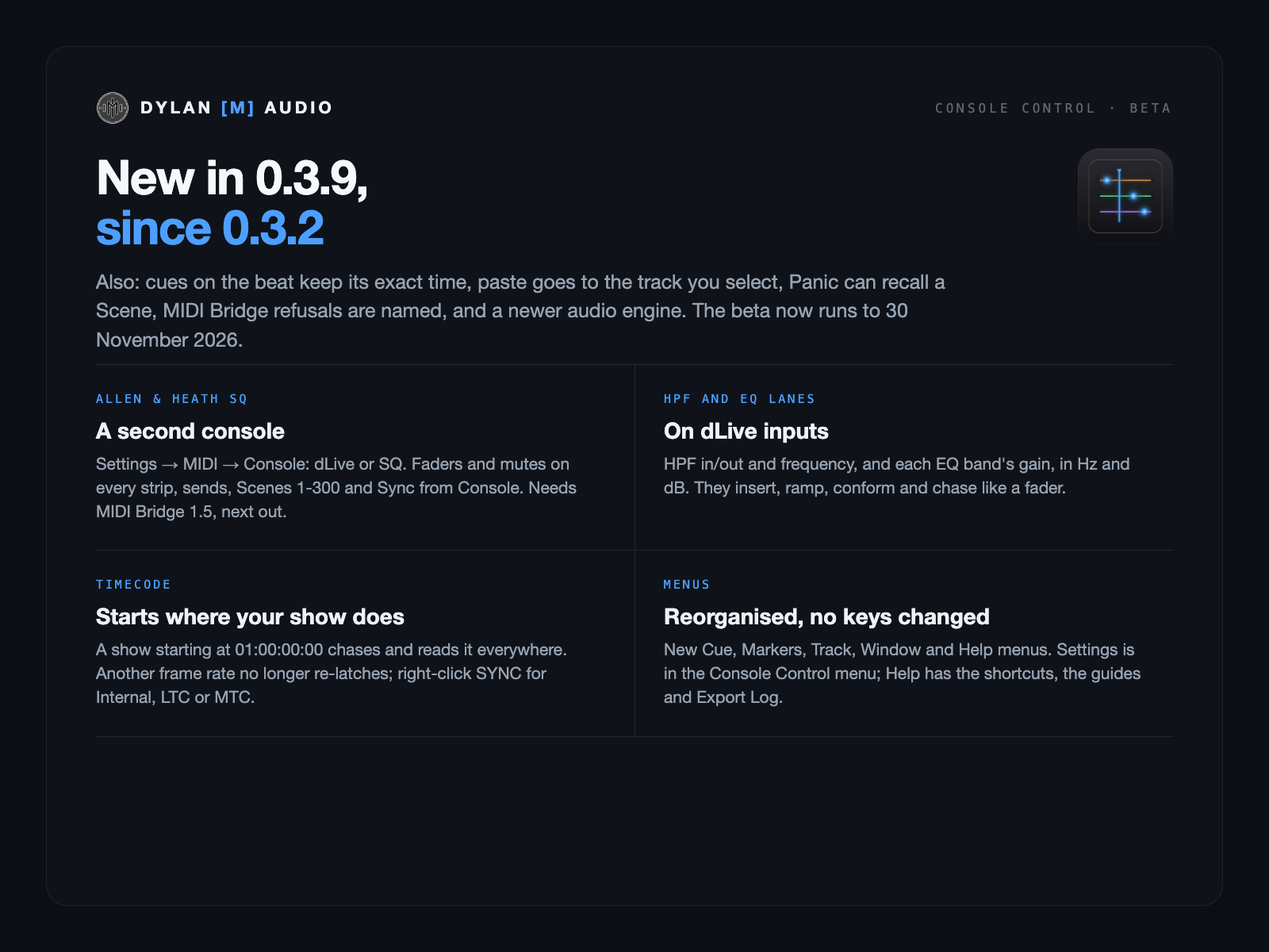
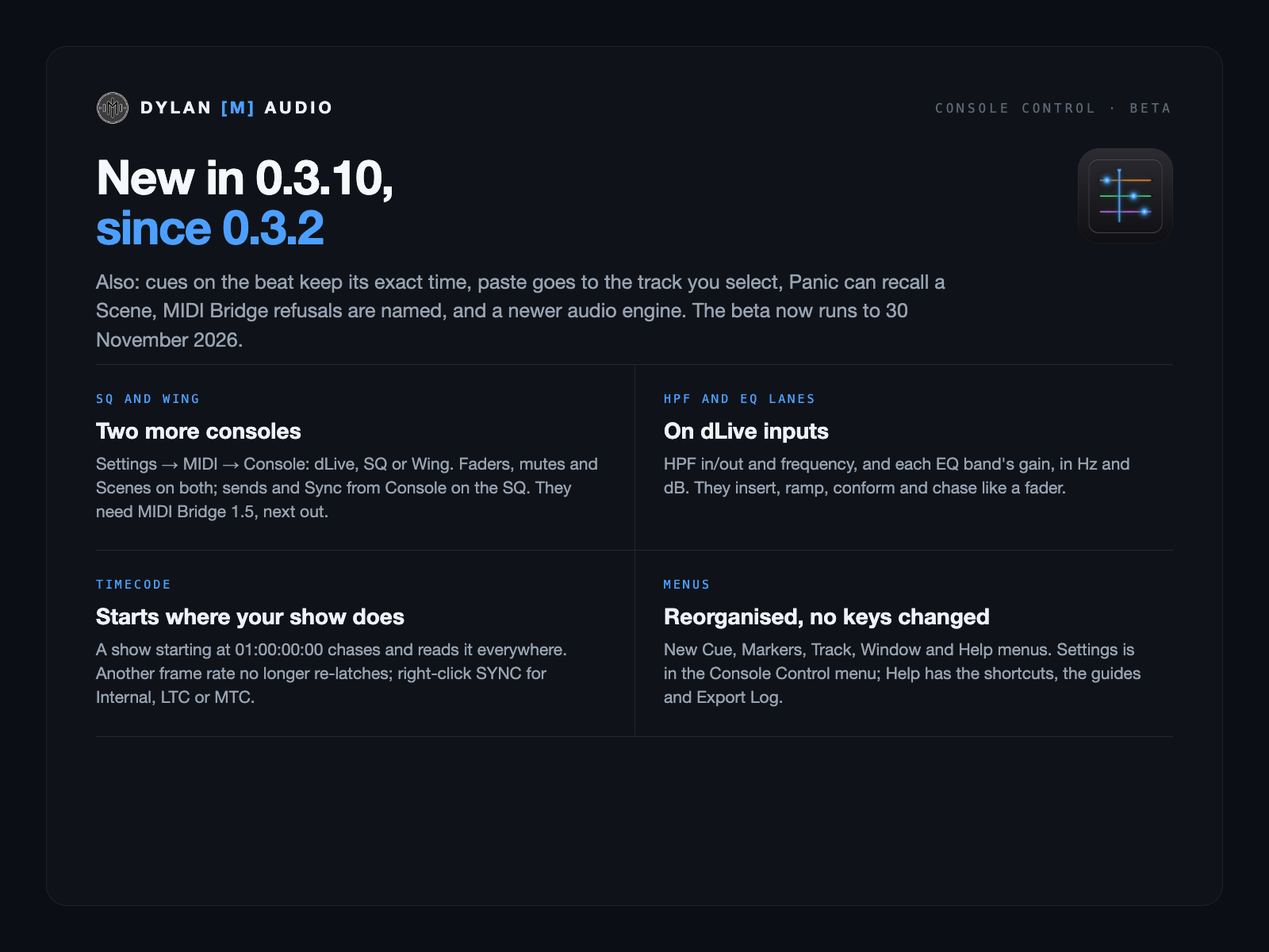
/cc-beta: 0.3.10 is the build on the beta product, not 0.3.9
The operator: it's 0.3.10 that went up (23 Oct 2026). The page's version,
New since 0.3.2 with 0.3.10's Behringer Wing (through MIDI Bridge 1.4.108
or later), Console "dLive · SQ and Wing with MIDI Bridge 1.5", the
carousel's hero, what's new and beta cards, the Quick Reference and
Reference Manual from the 0.3.10 DMG, and the beta manifest at 0.3.10.

Changed region(s): [[0.0625, 0.4625, 0.4688, 0.555], [0.0625, 0.4008, 0.25, 0.4625], [0.25, 0.1542, 0.3125, 0.2158]]

diff --git a/cc-beta/index.html b/cc-beta/index.html
@@ -222,7 +222,7 @@
       <img src="/assets/console-control.png" alt="Console Control app icon" width="72" height="72" />
       <div>
         <h1>Console Control</h1>
-        <div class="p-badges"><span class="tag">Beta &middot; 0.3.9</span></div>
+        <div class="p-badges"><span class="tag">Beta &middot; 0.3.10</span></div>
       </div>
     </div>
     <p class="p-tagline">Complete console automation, locked to timecode. Free to try until 30 November 2026.</p>
@@ -246,12 +246,12 @@
     <ul class="feature-list"><li><span class="ck"><svg viewBox="0 0 24 24" stroke-linecap="round" stroke-linejoin="round"><path d="M20 6 9 17l-5-5"/></svg></span><span>Fader, mute, Scene, Action and send cues on a timeline, locked to LTC or MTC</span></li><li><span class="ck"><svg viewBox="0 0 24 24" stroke-linecap="round" stroke-linejoin="round"><path d="M20 6 9 17l-5-5"/></svg></span><span>Import a live recording and every track lands at its real timecode — a whole set in under a minute</span></li><li><span class="ck"><svg viewBox="0 0 24 24" stroke-linecap="round" stroke-linejoin="round"><path d="M20 6 9 17l-5-5"/></svg></span><span>A tempo map from your click in seconds; snap cues to the beat</span></li><li><span class="ck"><svg viewBox="0 0 24 24" stroke-linecap="round" stroke-linejoin="round"><path d="M20 6 9 17l-5-5"/></svg></span><span>Your console's own Scene names, channel names and colours</span></li><li><span class="ck"><svg viewBox="0 0 24 24" stroke-linecap="round" stroke-linejoin="round"><path d="M20 6 9 17l-5-5"/></svg></span><span>Chase: locate anywhere and the console conforms</span></li><li><span class="ck"><svg viewBox="0 0 24 24" stroke-linecap="round" stroke-linejoin="round"><path d="M20 6 9 17l-5-5"/></svg></span><span>Preflight before doors, Show Mode during, Panic always</span></li><li><span class="ck"><svg viewBox="0 0 24 24" stroke-linecap="round" stroke-linejoin="round"><path d="M20 6 9 17l-5-5"/></svg></span><span>Works with MIDI Bridge, Time Code Tool and your Stream Deck</span></li></ul>
     <div class="side" style="margin-top:24px;">
       <div class="h">// The beta</div>
-      <div class="srow"><span class="k">Version</span><span class="v">0.3.9 BETA</span></div><div class="srow"><span class="k">Beta until</span><span class="v">30 November 2026</span></div><div class="srow"><span class="k">Price</span><span class="v">Free during the beta</span></div><div class="srow"><span class="k">Platform</span><span class="v">macOS 11+</span></div><div class="srow"><span class="k">Chip</span><span class="v">Apple Silicon &amp; Intel</span></div><div class="srow"><span class="k">Console</span><span class="v">dLive &middot; SQ with MIDI Bridge 1.5</span></div><div class="srow"><span class="k">Needs</span><span class="v"><a href="/products/midi-bridge/" style="color:var(--blue)">MIDI Bridge</a> 1.1+</span></div><div class="srow"><span class="k">Stream Deck</span><span class="v"><a href="/products/companion/" style="color:var(--blue)">via Companion</a></span></div>
+      <div class="srow"><span class="k">Version</span><span class="v">0.3.10 BETA</span></div><div class="srow"><span class="k">Beta until</span><span class="v">30 November 2026</span></div><div class="srow"><span class="k">Price</span><span class="v">Free during the beta</span></div><div class="srow"><span class="k">Platform</span><span class="v">macOS 11+</span></div><div class="srow"><span class="k">Chip</span><span class="v">Apple Silicon &amp; Intel</span></div><div class="srow"><span class="k">Console</span><span class="v">dLive &middot; SQ and Wing with MIDI Bridge 1.5</span></div><div class="srow"><span class="k">Needs</span><span class="v"><a href="/products/midi-bridge/" style="color:var(--blue)">MIDI Bridge</a> 1.1+</span></div><div class="srow"><span class="k">Stream Deck</span><span class="v"><a href="/products/companion/" style="color:var(--blue)">via Companion</a></span></div>
     </div>
   </div>
 </div></section>
 
-<section class="lf"><div class="wrap"><div class="lf-block" id="new"><div class="kicker p-sec-k"><span class="tick">//</span>&nbsp; New in 0.3.9</div><p>Since 0.3.2, the build the testers had before. The beta now runs to 30 November 2026. The full list comes with the download.</p><div class="lf-item"><h3>The Allen &amp; Heath SQ.</h3><p>Settings &rarr; MIDI &rarr; Console chooses the console a show is for: dLive or SQ. On an SQ: faders and mutes on every strip, sends, Scenes 1&ndash;300, and Sync from Console for its names and colours. It needs MIDI Bridge 1.5, which is next out.</p></div><div class="lf-item"><h3>HPF and EQ lanes.</h3><p>On dLive inputs: HPF in/out and frequency, and each EQ band&rsquo;s gain, in Hz and dB. They insert, ramp, conform and chase like a fader; a frequency sweeps evenly by octave.</p></div><div class="lf-item"><h3>Timecode that starts where your show does.</h3><p>A show whose session starts at 01:00:00:00 chases and reads 01:00:00:00 everywhere. LTC at another frame rate no longer drops and re-latches, glitches in the code are ridden through, and right-clicking SYNC chooses Internal, LTC or MTC.</p></div><div class="lf-item"><h3>Editing on the beat.</h3><p>Cues dragged, placed or pasted with Beat snap keep the beat&rsquo;s exact time. Paste onto another track by selecting it first. Panic can recall a Scene.</p></div><div class="lf-item"><h3>New menus, and a newer audio engine.</h3><p>Cue, Markers, Track, Window and Help menus, no shortcuts changed. The engine handles input-only and output-only devices, uses less memory, and converts audio about three times faster on Intel Macs.</p></div></div><div class="lf-block" id="start"><div class="kicker p-sec-k"><span class="tick">//</span>&nbsp; Your first session, in eight steps</div><p>Twenty minutes at the desk, or at home with a show recording. Nothing reaches the console until the bridge line is green.</p><ol class="lf-steps"><li><h3>Start MIDI Bridge</h3><p>Console Control talks to the console through the free <a href="/products/midi-bridge/">MIDI Bridge</a> (1.1 or later). Wait for the green line at the bottom of the window.</p></li><li><h3>Match the base MIDI channel</h3><p>Settings (<kbd>⌘,</kbd>) &mdash; the same number as Utility &rarr; Control &rarr; MIDI on the console.</p></li><li><h3>Add your tracks</h3><p><b>+ Track</b>, pick a type and a range. &ldquo;1-16&rdquo; makes sixteen input tracks in one step.</p></li><li><h3>Bring in the console&rsquo;s names</h3><p>Sync from Console (<kbd>⌃⌥R</kbd>) for channel names and colours, straight from the desk. File &rarr; Import Console Show File for Scene names and Actions.</p></li><li><h3>Import a show recording</h3><p><kbd>⌘I</kbd>. With an LTC track present, every song is placed at its own timecode and outlined as a region.</p></li><li><h3>Place cues</h3><p>Select a track, then <kbd>U</kbd>, <kbd>I</kbd> or <kbd>V</kbd> for fader cues, <kbd>M</kbd> for mute, <kbd>S</kbd> for a Scene, <kbd>A</kbd> for an Action.</p></li><li><h3>Run Preflight</h3><p><kbd>⌃⌥P</kbd> checks the bridge, the base channel, chase and routing, and says exactly what is wrong.</p></li><li><h3>Arm SYNC, press play</h3><p>The timeline waits for timecode and follows it when it locks. Then <kbd>⌘⇧L</kbd> for Show Mode.</p></li></ol></div><div class="lf-block"><div class="kicker p-sec-k"><span class="tick">//</span>&nbsp; Four ideas that explain everything else</div><p>If the app ever surprises you, it is almost always one of these.</p><div class="lf-item"><h3>Time, not bars &mdash; cues sit at a timecode position.</h3><p>Live shows drift, drop the click and vamp. Tempo exists only for beat snapping and the grid &mdash; the ruler is always time.</p></div><div class="lf-item"><h3>Chase &mdash; move the playhead and the desk follows.</h3><p>Scrub, locate or play: every lane&rsquo;s value at that position is worked out and sent. Chase can be switched off for everything (<kbd>⇧C</kbd>) or per lane (<kbd>C</kbd>).</p></div><div class="lf-item"><h3>Fired vs pending &mdash; plain text was sent, a dot was not.</h3><p>A dot beside a readout means &ldquo;the console should be here, but it hasn&rsquo;t been sent&rdquo;. Conform Console sends everything pending in one pass.</p></div><div class="lf-item"><h3>One console path &mdash; everything goes through MIDI Bridge.</h3><p>Console Control never opens its own connection to the desk, so your DAW, Companion and the other apps keep working beside it.</p></div></div><div class="lf-block"><div class="kicker p-sec-k"><span class="tick">//</span>&nbsp; SYNC arms, play latches, stop disarms</div><p>The button beside Record. Always this way round &mdash; a show never latches on its own when it opens.</p><div class="states"><div class="state"><span class="dot" style="background:var(--dim)"></span><span class="l">Dimmed</span><span class="d">Sync off. Internal clock, for programming and loop playback.</span></div><div class="state"><span class="dot" style="background:#6f93b8"></span><span class="l">Lit steel-blue</span><span class="d">Armed. Press play to latch.</span></div><div class="state"><span class="dot" style="background:var(--amber)"></span><span class="l">Pulsing amber</span><span class="d">Play pressed, awaiting timecode.</span></div><div class="state"><span class="dot" style="background:var(--green)"></span><span class="l">Green</span><span class="d">Locked to incoming timecode. Locate and scrub belong to the source.</span></div><div class="state"><span class="dot" style="background:var(--amber)"></span><span class="l">Steady amber</span><span class="d">Freewheeling &mdash; the signal dropped and the timeline is coasting.</span></div></div><p><b>Right-click SYNC</b> for the source (LTC or MTC), the LTC input channel, the MTC port, freewheel time, drift tolerance and offset. <b>Still pulsing while code plays?</b> It is listening to the wrong input.</p></div><div class="lf-block" id="keys"><div class="kicker p-sec-k"><span class="tick">//</span>&nbsp; The keys worth learning first</div><p>Every shortcut can be changed in Help &rarr; Keyboard Shortcuts (<kbd>⌃⌥K</kbd>): click one and press the keys you want. Hover over any button to see its key. All of them are in the <a href="/guides/console-control-quick-reference.pdf" target="_blank" rel="noopener">Quick Reference</a>.</p><div class="keys"><div class="key"><div class="c"><kbd>Space</kbd></div><div class="a">Play / stop</div></div><div class="key"><div class="c"><kbd>⌘⇧Esc</kbd></div><div class="a">Panic</div></div><div class="key"><div class="c"><kbd>⌘⇧L</kbd></div><div class="a">Show Mode</div></div><div class="key"><div class="c"><kbd>⌃⌥C</kbd></div><div class="a">Conform Console</div></div><div class="key"><div class="c"><kbd>⌃⌥P</kbd></div><div class="a">Preflight</div></div><div class="key"><div class="c"><kbd>⌃⌥R</kbd></div><div class="a">Sync from Console</div></div><div class="key"><div class="c"><kbd>U</kbd><kbd>I</kbd><kbd>V</kbd></div><div class="a">Fader cue: unity / &minus;&infin; / a value</div></div><div class="key"><div class="c"><kbd>M</kbd><kbd>⇧M</kbd></div><div class="a">Mute / unmute cue</div></div><div class="key"><div class="c"><kbd>S</kbd><kbd>A</kbd></div><div class="a">Scene / Action cue</div></div><div class="key"><div class="c"><kbd>C</kbd><kbd>⇧C</kbd></div><div class="a">Chase this lane / everything</div></div><div class="key"><div class="c"><kbd>[</kbd><kbd>]</kbd></div><div class="a">Previous / next marker, region or clip edge</div></div><div class="key"><div class="c"><kbd>1</kbd><kbd>…</kbd><kbd>0</kbd></div><div class="a">Regions 1 to 10</div></div><div class="key"><div class="c"><kbd>T</kbd></div><div class="a">Go to a timecode</div></div><div class="key"><div class="c"><kbd>⌥M</kbd><kbd>⌥R</kbd></div><div class="a">Marker at playhead / region from selection</div></div><div class="key"><div class="c"><kbd>⌥←</kbd><kbd>⌥→</kbd></div><div class="a">Nudge the selection</div></div><div class="key"><div class="c"><kbd>⌃⌥Space</kbd></div><div class="a">Record armed reference tracks</div></div><div class="key"><div class="c"><kbd>⌃⌥X</kbd></div><div class="a">Mixer</div></div><div class="key"><div class="c"><kbd>⌘Z</kbd><kbd>⌘⇧Z</kbd></div><div class="a">Undo / redo</div></div></div></div><div class="lf-block"><div class="kicker p-sec-k"><span class="tick">//</span>&nbsp; Built for show day</div><p>Four controls to know before doors.</p><div class="lf-item"><h3>Preflight &mdash; <kbd>⌃⌥P</kbd></h3><p>Flags problems before the show: bridge and console link, base-channel mismatches, chase switched off, send lanes the console can&rsquo;t route.</p></div><div class="lf-item"><h3>Show Mode &mdash; <kbd>⌘⇧L</kbd></h3><p>Locks editing and undo. Huge timecode, sync, chase, bridge health and live per-track readouts &mdash; and what&rsquo;s coming next, with countdowns. Asks before it enters and before it leaves.</p></div><div class="lf-item"><h3>Conform Console &mdash; <kbd>⌃⌥C</kbd></h3><p>A one-shot chase you can use at any moment. Play always conforms first, so the console enters playback in the right state.</p></div><div class="lf-item"><h3>Panic &mdash; <kbd>⌘⇧Esc</kbd></h3><p>Always available, even with everything else locked.</p></div></div><div class="lf-block" id="stream-deck"><div class="kicker p-sec-k"><span class="tick">//</span>&nbsp; On your Stream Deck</div><p>Beta testers get Stream Deck control too, through Bitfocus Companion.</p><div class="lf-item"><h3>Every shortcut is a key.</h3><p>Through the free <a href="/products/companion/">Companion module</a>, Console Control&rsquo;s commands are Companion actions &mdash; play, Conform, Show Mode, Panic, cue programming &mdash; with sync lock and chase shown on the keys. A Stream Deck is the nicest way to press them; Companion&rsquo;s web buttons on a phone or tablet work too.</p></div><div class="lf-item"><h3>Set it up once.</h3><p>Install Companion on the same Mac and add the dylanmaudio module &mdash; the steps are on the <a href="/products/companion/#install">Companion page</a>. Console Control appears beside your other dylanmaudio apps.</p></div><div class="lf-item"><h3>You decide what it can touch.</h3><p>Settings &rarr; Companion: allow Companion control or switch it off, and lock the show-critical controls &mdash; Stop, Record, Conform and Show Mode are refused while locked. Panic always works.</p></div></div><div class="lf-block"><div class="kicker p-sec-k"><span class="tick">//</span>&nbsp; If something is wrong</div><p>Read the line at the bottom of the window. It tells you where the chain is broken, in order.</p><div class="states"><div class="state"><span class="dot" style="background:var(--green)"></span><span class="l">Green</span><span class="d">Console connected through the bridge. Its IP is shown.</span></div><div class="state"><span class="dot" style="background:var(--amber)"></span><span class="l">Amber</span><span class="d">Bridge running, console unreachable. Check the console IP in the bridge, the network, and MIDI-over-TCP on the console.</span></div><div class="state"><span class="dot" style="background:var(--red)"></span><span class="l">Red</span><span class="d">The MIDI Bridge app isn&rsquo;t running. Start it.</span></div><div class="state"><span class="dot" style="background:var(--blue)"></span><span class="l">Green, but nothing moves</span><span class="d">Check chase for everything (<kbd>⇧C</kbd>), the track&rsquo;s M, the lane&rsquo;s chase badge &mdash; or run Preflight (<kbd>⌃⌥P</kbd>).</span></div><div class="state"><span class="dot" style="background:var(--blue)"></span><span class="l">A track won&rsquo;t edit</span><span class="d">It is locked, or you are in Show Mode.</span></div></div><p><b>Something went wrong?</b> <b>Help &rarr; Export Log&hellip;</b> puts a copy of the session log on your Desktop. Send it with <b>Help &rarr; Send Feedback&hellip;</b>, or to <a href="mailto:dylan@dylanmaudio.com">dylan@dylanmaudio.com</a>. The log already records your settings, the show, every message you saw and the timecode state.</p></div><div class="lf-block" id="beta"><div class="kicker p-sec-k"><span class="tick">//</span>&nbsp; The beta, until 30 November 2026</div><p>This is 0.3.9 BETA: a full-featured beta. Nothing is switched off, and nothing is locked away afterwards.</p><div class="lf-item"><h3>Until the date, everything works.</h3><p>The window shows the end date from first launch, and for the last two weeks it reminds you each time it opens.</p></div><div class="lf-item"><h3>After the date, it opens and edits but sends nothing.</h3><p>Your shows stay yours. Console output stops until you install a newer beta.</p></div><div class="lf-item"><h3>A show is never interrupted.</h3><p>The date is only checked when the app starts, so a show that runs past midnight carries on.</p></div><div class="lf-item"><h3>You need MIDI Bridge and a current Mac.</h3><p>The free <a href="/products/midi-bridge/">MIDI Bridge</a> (1.1 or later; 1.5 for an SQ), macOS 11 or later, Apple Silicon or Intel. Companion and a Stream Deck if you want keys. No analytics, no telemetry.</p></div></div></div></section>
+<section class="lf"><div class="wrap"><div class="lf-block" id="new"><div class="kicker p-sec-k"><span class="tick">//</span>&nbsp; New in 0.3.10</div><p>Since 0.3.2, the build the testers had before. The beta now runs to 30 November 2026. The full list comes with the download.</p><div class="lf-item"><h3>The Allen &amp; Heath SQ.</h3><p>Settings &rarr; MIDI &rarr; Console chooses the console a show is for: dLive or SQ. On an SQ: faders and mutes on every strip, sends, Scenes 1&ndash;300, and Sync from Console for its names and colours. It needs MIDI Bridge 1.5, which is next out.</p></div><div class="lf-item"><h3>The Behringer Wing.</h3><p>Settings &rarr; MIDI &rarr; Console &rarr; Wing: faders and mutes on channels, buses, mains, matrices and DCAs, mute groups, and Scene recalls, through MIDI Bridge 1.4.108 or later, set to the Wing. Aux inputs, sends, Actions and HPF / EQ lanes aren&rsquo;t on the Wing yet.</p></div><div class="lf-item"><h3>HPF and EQ lanes.</h3><p>On dLive inputs: HPF in/out and frequency, and each EQ band&rsquo;s gain, in Hz and dB. They insert, ramp, conform and chase like a fader; a frequency sweeps evenly by octave.</p></div><div class="lf-item"><h3>Timecode that starts where your show does.</h3><p>A show whose session starts at 01:00:00:00 chases and reads 01:00:00:00 everywhere. LTC at another frame rate no longer drops and re-latches, glitches in the code are ridden through, and right-clicking SYNC chooses Internal, LTC or MTC.</p></div><div class="lf-item"><h3>Editing on the beat.</h3><p>Cues dragged, placed or pasted with Beat snap keep the beat&rsquo;s exact time. Paste onto another track by selecting it first. Panic can recall a Scene.</p></div><div class="lf-item"><h3>New menus, and a newer audio engine.</h3><p>Cue, Markers, Track, Window and Help menus, no shortcuts changed. The engine handles input-only and output-only devices, uses less memory, and converts audio about three times faster on Intel Macs.</p></div></div><div class="lf-block" id="start"><div class="kicker p-sec-k"><span class="tick">//</span>&nbsp; Your first session, in eight steps</div><p>Twenty minutes at the desk, or at home with a show recording. Nothing reaches the console until the bridge line is green.</p><ol class="lf-steps"><li><h3>Start MIDI Bridge</h3><p>Console Control talks to the console through the free <a href="/products/midi-bridge/">MIDI Bridge</a> (1.1 or later). Wait for the green line at the bottom of the window.</p></li><li><h3>Match the base MIDI channel</h3><p>Settings (<kbd>⌘,</kbd>) &mdash; the same number as Utility &rarr; Control &rarr; MIDI on the console.</p></li><li><h3>Add your tracks</h3><p><b>+ Track</b>, pick a type and a range. &ldquo;1-16&rdquo; makes sixteen input tracks in one step.</p></li><li><h3>Bring in the console&rsquo;s names</h3><p>Sync from Console (<kbd>⌃⌥R</kbd>) for channel names and colours, straight from the desk. File &rarr; Import Console Show File for Scene names and Actions.</p></li><li><h3>Import a show recording</h3><p><kbd>⌘I</kbd>. With an LTC track present, every song is placed at its own timecode and outlined as a region.</p></li><li><h3>Place cues</h3><p>Select a track, then <kbd>U</kbd>, <kbd>I</kbd> or <kbd>V</kbd> for fader cues, <kbd>M</kbd> for mute, <kbd>S</kbd> for a Scene, <kbd>A</kbd> for an Action.</p></li><li><h3>Run Preflight</h3><p><kbd>⌃⌥P</kbd> checks the bridge, the base channel, chase and routing, and says exactly what is wrong.</p></li><li><h3>Arm SYNC, press play</h3><p>The timeline waits for timecode and follows it when it locks. Then <kbd>⌘⇧L</kbd> for Show Mode.</p></li></ol></div><div class="lf-block"><div class="kicker p-sec-k"><span class="tick">//</span>&nbsp; Four ideas that explain everything else</div><p>If the app ever surprises you, it is almost always one of these.</p><div class="lf-item"><h3>Time, not bars &mdash; cues sit at a timecode position.</h3><p>Live shows drift, drop the click and vamp. Tempo exists only for beat snapping and the grid &mdash; the ruler is always time.</p></div><div class="lf-item"><h3>Chase &mdash; move the playhead and the desk follows.</h3><p>Scrub, locate or play: every lane&rsquo;s value at that position is worked out and sent. Chase can be switched off for everything (<kbd>⇧C</kbd>) or per lane (<kbd>C</kbd>).</p></div><div class="lf-item"><h3>Fired vs pending &mdash; plain text was sent, a dot was not.</h3><p>A dot beside a readout means &ldquo;the console should be here, but it hasn&rsquo;t been sent&rdquo;. Conform Console sends everything pending in one pass.</p></div><div class="lf-item"><h3>One console path &mdash; everything goes through MIDI Bridge.</h3><p>Console Control never opens its own connection to the desk, so your DAW, Companion and the other apps keep working beside it.</p></div></div><div class="lf-block"><div class="kicker p-sec-k"><span class="tick">//</span>&nbsp; SYNC arms, play latches, stop disarms</div><p>The button beside Record. Always this way round &mdash; a show never latches on its own when it opens.</p><div class="states"><div class="state"><span class="dot" style="background:var(--dim)"></span><span class="l">Dimmed</span><span class="d">Sync off. Internal clock, for programming and loop playback.</span></div><div class="state"><span class="dot" style="background:#6f93b8"></span><span class="l">Lit steel-blue</span><span class="d">Armed. Press play to latch.</span></div><div class="state"><span class="dot" style="background:var(--amber)"></span><span class="l">Pulsing amber</span><span class="d">Play pressed, awaiting timecode.</span></div><div class="state"><span class="dot" style="background:var(--green)"></span><span class="l">Green</span><span class="d">Locked to incoming timecode. Locate and scrub belong to the source.</span></div><div class="state"><span class="dot" style="background:var(--amber)"></span><span class="l">Steady amber</span><span class="d">Freewheeling &mdash; the signal dropped and the timeline is coasting.</span></div></div><p><b>Right-click SYNC</b> for the source (LTC or MTC), the LTC input channel, the MTC port, freewheel time, drift tolerance and offset. <b>Still pulsing while code plays?</b> It is listening to the wrong input.</p></div><div class="lf-block" id="keys"><div class="kicker p-sec-k"><span class="tick">//</span>&nbsp; The keys worth learning first</div><p>Every shortcut can be changed in Help &rarr; Keyboard Shortcuts (<kbd>⌃⌥K</kbd>): click one and press the keys you want. Hover over any button to see its key. All of them are in the <a href="/guides/console-control-quick-reference.pdf" target="_blank" rel="noopener">Quick Reference</a>.</p><div class="keys"><div class="key"><div class="c"><kbd>Space</kbd></div><div class="a">Play / stop</div></div><div class="key"><div class="c"><kbd>⌘⇧Esc</kbd></div><div class="a">Panic</div></div><div class="key"><div class="c"><kbd>⌘⇧L</kbd></div><div class="a">Show Mode</div></div><div class="key"><div class="c"><kbd>⌃⌥C</kbd></div><div class="a">Conform Console</div></div><div class="key"><div class="c"><kbd>⌃⌥P</kbd></div><div class="a">Preflight</div></div><div class="key"><div class="c"><kbd>⌃⌥R</kbd></div><div class="a">Sync from Console</div></div><div class="key"><div class="c"><kbd>U</kbd><kbd>I</kbd><kbd>V</kbd></div><div class="a">Fader cue: unity / &minus;&infin; / a value</div></div><div class="key"><div class="c"><kbd>M</kbd><kbd>⇧M</kbd></div><div class="a">Mute / unmute cue</div></div><div class="key"><div class="c"><kbd>S</kbd><kbd>A</kbd></div><div class="a">Scene / Action cue</div></div><div class="key"><div class="c"><kbd>C</kbd><kbd>⇧C</kbd></div><div class="a">Chase this lane / everything</div></div><div class="key"><div class="c"><kbd>[</kbd><kbd>]</kbd></div><div class="a">Previous / next marker, region or clip edge</div></div><div class="key"><div class="c"><kbd>1</kbd><kbd>…</kbd><kbd>0</kbd></div><div class="a">Regions 1 to 10</div></div><div class="key"><div class="c"><kbd>T</kbd></div><div class="a">Go to a timecode</div></div><div class="key"><div class="c"><kbd>⌥M</kbd><kbd>⌥R</kbd></div><div class="a">Marker at playhead / region from selection</div></div><div class="key"><div class="c"><kbd>⌥←</kbd><kbd>⌥→</kbd></div><div class="a">Nudge the selection</div></div><div class="key"><div class="c"><kbd>⌃⌥Space</kbd></div><div class="a">Record armed reference tracks</div></div><div class="key"><div class="c"><kbd>⌃⌥X</kbd></div><div class="a">Mixer</div></div><div class="key"><div class="c"><kbd>⌘Z</kbd><kbd>⌘⇧Z</kbd></div><div class="a">Undo / redo</div></div></div></div><div class="lf-block"><div class="kicker p-sec-k"><span class="tick">//</span>&nbsp; Built for show day</div><p>Four controls to know before doors.</p><div class="lf-item"><h3>Preflight &mdash; <kbd>⌃⌥P</kbd></h3><p>Flags problems before the show: bridge and console link, base-channel mismatches, chase switched off, send lanes the console can&rsquo;t route.</p></div><div class="lf-item"><h3>Show Mode &mdash; <kbd>⌘⇧L</kbd></h3><p>Locks editing and undo. Huge timecode, sync, chase, bridge health and live per-track readouts &mdash; and what&rsquo;s coming next, with countdowns. Asks before it enters and before it leaves.</p></div><div class="lf-item"><h3>Conform Console &mdash; <kbd>⌃⌥C</kbd></h3><p>A one-shot chase you can use at any moment. Play always conforms first, so the console enters playback in the right state.</p></div><div class="lf-item"><h3>Panic &mdash; <kbd>⌘⇧Esc</kbd></h3><p>Always available, even with everything else locked.</p></div></div><div class="lf-block" id="stream-deck"><div class="kicker p-sec-k"><span class="tick">//</span>&nbsp; On your Stream Deck</div><p>Beta testers get Stream Deck control too, through Bitfocus Companion.</p><div class="lf-item"><h3>Every shortcut is a key.</h3><p>Through the free <a href="/products/companion/">Companion module</a>, Console Control&rsquo;s commands are Companion actions &mdash; play, Conform, Show Mode, Panic, cue programming &mdash; with sync lock and chase shown on the keys. A Stream Deck is the nicest way to press them; Companion&rsquo;s web buttons on a phone or tablet work too.</p></div><div class="lf-item"><h3>Set it up once.</h3><p>Install Companion on the same Mac and add the dylanmaudio module &mdash; the steps are on the <a href="/products/companion/#install">Companion page</a>. Console Control appears beside your other dylanmaudio apps.</p></div><div class="lf-item"><h3>You decide what it can touch.</h3><p>Settings &rarr; Companion: allow Companion control or switch it off, and lock the show-critical controls &mdash; Stop, Record, Conform and Show Mode are refused while locked. Panic always works.</p></div></div><div class="lf-block"><div class="kicker p-sec-k"><span class="tick">//</span>&nbsp; If something is wrong</div><p>Read the line at the bottom of the window. It tells you where the chain is broken, in order.</p><div class="states"><div class="state"><span class="dot" style="background:var(--green)"></span><span class="l">Green</span><span class="d">Console connected through the bridge. Its IP is shown.</span></div><div class="state"><span class="dot" style="background:var(--amber)"></span><span class="l">Amber</span><span class="d">Bridge running, console unreachable. Check the console IP in the bridge, the network, and MIDI-over-TCP on the console.</span></div><div class="state"><span class="dot" style="background:var(--red)"></span><span class="l">Red</span><span class="d">The MIDI Bridge app isn&rsquo;t running. Start it.</span></div><div class="state"><span class="dot" style="background:var(--blue)"></span><span class="l">Green, but nothing moves</span><span class="d">Check chase for everything (<kbd>⇧C</kbd>), the track&rsquo;s M, the lane&rsquo;s chase badge &mdash; or run Preflight (<kbd>⌃⌥P</kbd>).</span></div><div class="state"><span class="dot" style="background:var(--blue)"></span><span class="l">A track won&rsquo;t edit</span><span class="d">It is locked, or you are in Show Mode.</span></div></div><p><b>Something went wrong?</b> <b>Help &rarr; Export Log&hellip;</b> puts a copy of the session log on your Desktop. Send it with <b>Help &rarr; Send Feedback&hellip;</b>, or to <a href="mailto:dylan@dylanmaudio.com">dylan@dylanmaudio.com</a>. The log already records your settings, the show, every message you saw and the timecode state.</p></div><div class="lf-block" id="beta"><div class="kicker p-sec-k"><span class="tick">//</span>&nbsp; The beta, until 30 November 2026</div><p>This is 0.3.10 BETA: a full-featured beta. Nothing is switched off, and nothing is locked away afterwards.</p><div class="lf-item"><h3>Until the date, everything works.</h3><p>The window shows the end date from first launch, and for the last two weeks it reminds you each time it opens.</p></div><div class="lf-item"><h3>After the date, it opens and edits but sends nothing.</h3><p>Your shows stay yours. Console output stops until you install a newer beta.</p></div><div class="lf-item"><h3>A show is never interrupted.</h3><p>The date is only checked when the app starts, so a show that runs past midnight carries on.</p></div><div class="lf-item"><h3>You need MIDI Bridge and a current Mac.</h3><p>The free <a href="/products/midi-bridge/">MIDI Bridge</a> (1.1 or later; 1.5 for an SQ or a Wing), macOS 11 or later, Apple Silicon or Intel. Companion and a Stream Deck if you want keys. No analytics, no telemetry.</p></div></div></div></section>
 
 <section class="p-band"><div class="wrap"><div class="kicker" style="display:inline-block;">
   <span class="tick">//</span>&nbsp; Console Control beta</div>

diff --git a/build/build_beta.py b/build/build_beta.py
@@ -34,7 +34,7 @@ import build_products as P
 
 SLUG = "cc-beta"
 PRODUCT = C.PRODUCTS["console-control"]
-VERSION = "0.3.9 BETA"           # on the beta product (operator, 23 Oct 2026)
+VERSION = "0.3.10 BETA"          # on the beta product (operator, 23 Oct 2026)
 BETA_UNTIL = "30 November 2026"   # from 0.3.7; 0.3.2 and earlier stop sending on 31 October
 DOWNLOAD = C.CHECKOUT["console-control-beta"]
 # The carousel: the beta product's own store set, in assets/cards/console-control-beta/,
@@ -48,12 +48,16 @@ QUICK_REF = "/guides/console-control-quick-reference.pdf"
 # ---------------------------------------------------------------- the guide
 # (heading, detail) - detail may carry HTML.
 
-NEW = [  # 0.3.9 against 0.3.2, the build the testers had before: the Console Control thread's
-         # docs/release-0.3.9-beta.md, from its CHANGELOG. No 1.0 date: it's private.
+NEW = [  # 0.3.10 against 0.3.2, the build the testers had before: the Console Control thread's
+         # docs/release-0.3.9-beta.md and the 0.3.9 / 0.3.10 CHANGELOG. No 1.0 date: it's private.
     ("The Allen &amp; Heath SQ.",
      "Settings &rarr; MIDI &rarr; Console chooses the console a show is for: dLive or SQ. On an SQ: faders and "
      "mutes on every strip, sends, Scenes 1&ndash;300, and Sync from Console for its names and colours. It needs "
      "MIDI Bridge 1.5, which is next out."),
+    ("The Behringer Wing.",
+     "Settings &rarr; MIDI &rarr; Console &rarr; Wing: faders and mutes on channels, buses, mains, matrices and "
+     "DCAs, mute groups, and Scene recalls, through MIDI Bridge 1.4.108 or later, set to the Wing. Aux inputs, "
+     "sends, Actions and HPF / EQ lanes aren&rsquo;t on the Wing yet."),
     ("HPF and EQ lanes.",
      "On dLive inputs: HPF in/out and frequency, and each EQ band&rsquo;s gain, in Hz and dB. They insert, ramp, "
      "conform and chase like a fader; a frequency sweeps evenly by octave."),
@@ -119,7 +123,7 @@ SYNC_NOTE = ("<b>Right-click SYNC</b> for the source (LTC or MTC), the LTC input
              "time, drift tolerance and offset. <b>Still pulsing while code plays?</b> It is listening to the wrong "
              "input.")
 
-KEYS = [  # 0.3.9's (unchanged since 0.2.1) - docs/QUICK-REFERENCE.md in the apps repo has them all
+KEYS = [  # 0.3.10's (unchanged since 0.2.1) - docs/QUICK-REFERENCE.md in the apps repo has them all
     (["Space"], "Play / stop"),
     (["⌘⇧Esc"], "Panic"),
     (["⌘⇧L"], "Show Mode"),
@@ -193,7 +197,7 @@ THE_BETA = [
     ("A show is never interrupted.",
      "The date is only checked when the app starts, so a show that runs past midnight carries on."),
     ("You need MIDI Bridge and a current Mac.",
-     'The free <a href="/products/midi-bridge/">MIDI Bridge</a> (1.1 or later; 1.5 for an SQ), macOS 11 or later, '
+     'The free <a href="/products/midi-bridge/">MIDI Bridge</a> (1.1 or later; 1.5 for an SQ or a Wing), macOS 11 or later, '
      "Apple Silicon or Intel. Companion and a Stream Deck if you want keys. No analytics, no telemetry."),
 ]
 
@@ -269,7 +273,7 @@ def build():
     seo = C.seo_head(f"{SLUG}/", title, desc, image=f"assets/{p['icon']}", noindex=True)
     features = "".join(f"<li>{P.CK}<span>{f}</span></li>" for f in p["features"])
     glance = [("Version", VERSION), ("Beta until", BETA_UNTIL), ("Price", "Free during the beta"),
-              ("Platform", "macOS 11+"), ("Chip", "Apple Silicon &amp; Intel"), ("Console", "dLive &middot; SQ with MIDI Bridge 1.5"),
+              ("Platform", "macOS 11+"), ("Chip", "Apple Silicon &amp; Intel"), ("Console", "dLive &middot; SQ and Wing with MIDI Bridge 1.5"),
               ("Needs", '<a href="/products/midi-bridge/" style="color:var(--blue)">MIDI Bridge</a> 1.1+'),
               ("Stream Deck", '<a href="/products/companion/" style="color:var(--blue)">via Companion</a>')]
     glance_rows = "".join(f'<div class="srow"><span class="k">{k}</span><span class="v">{v}</span></div>'
